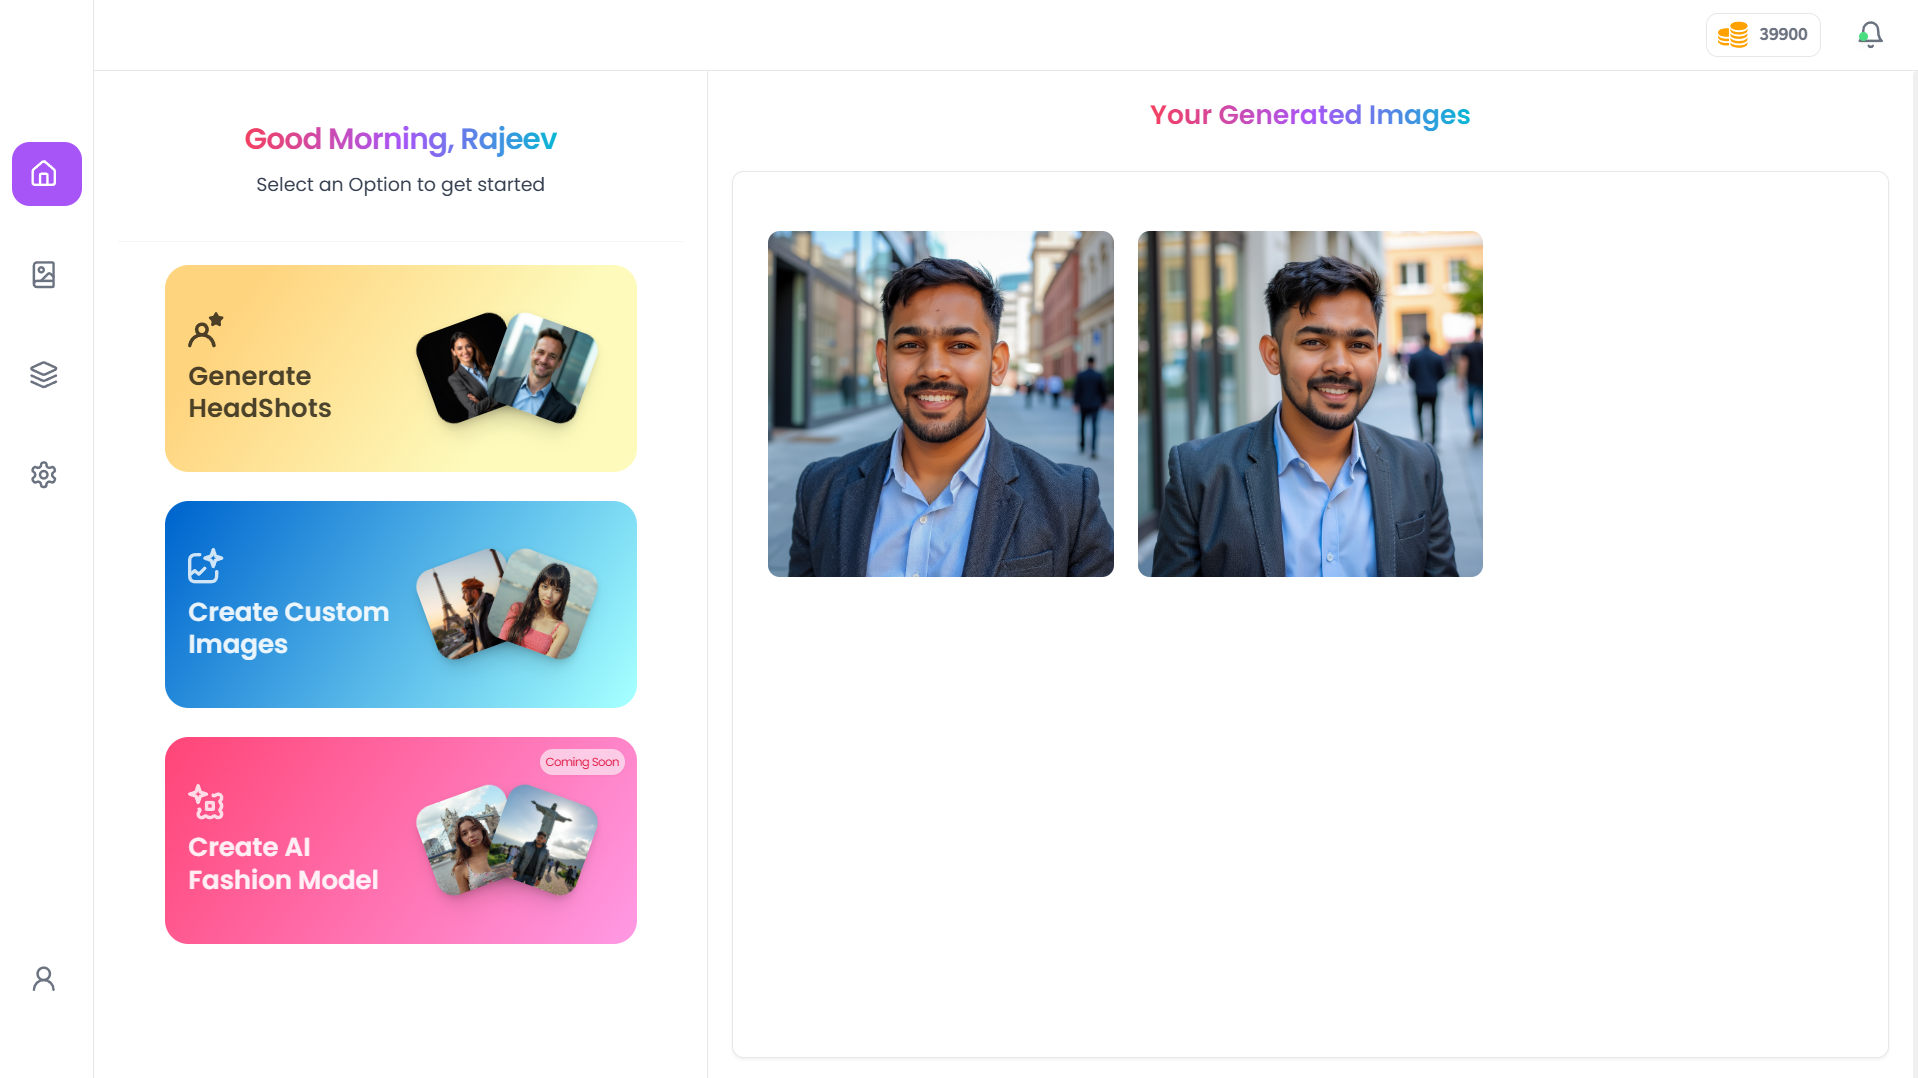
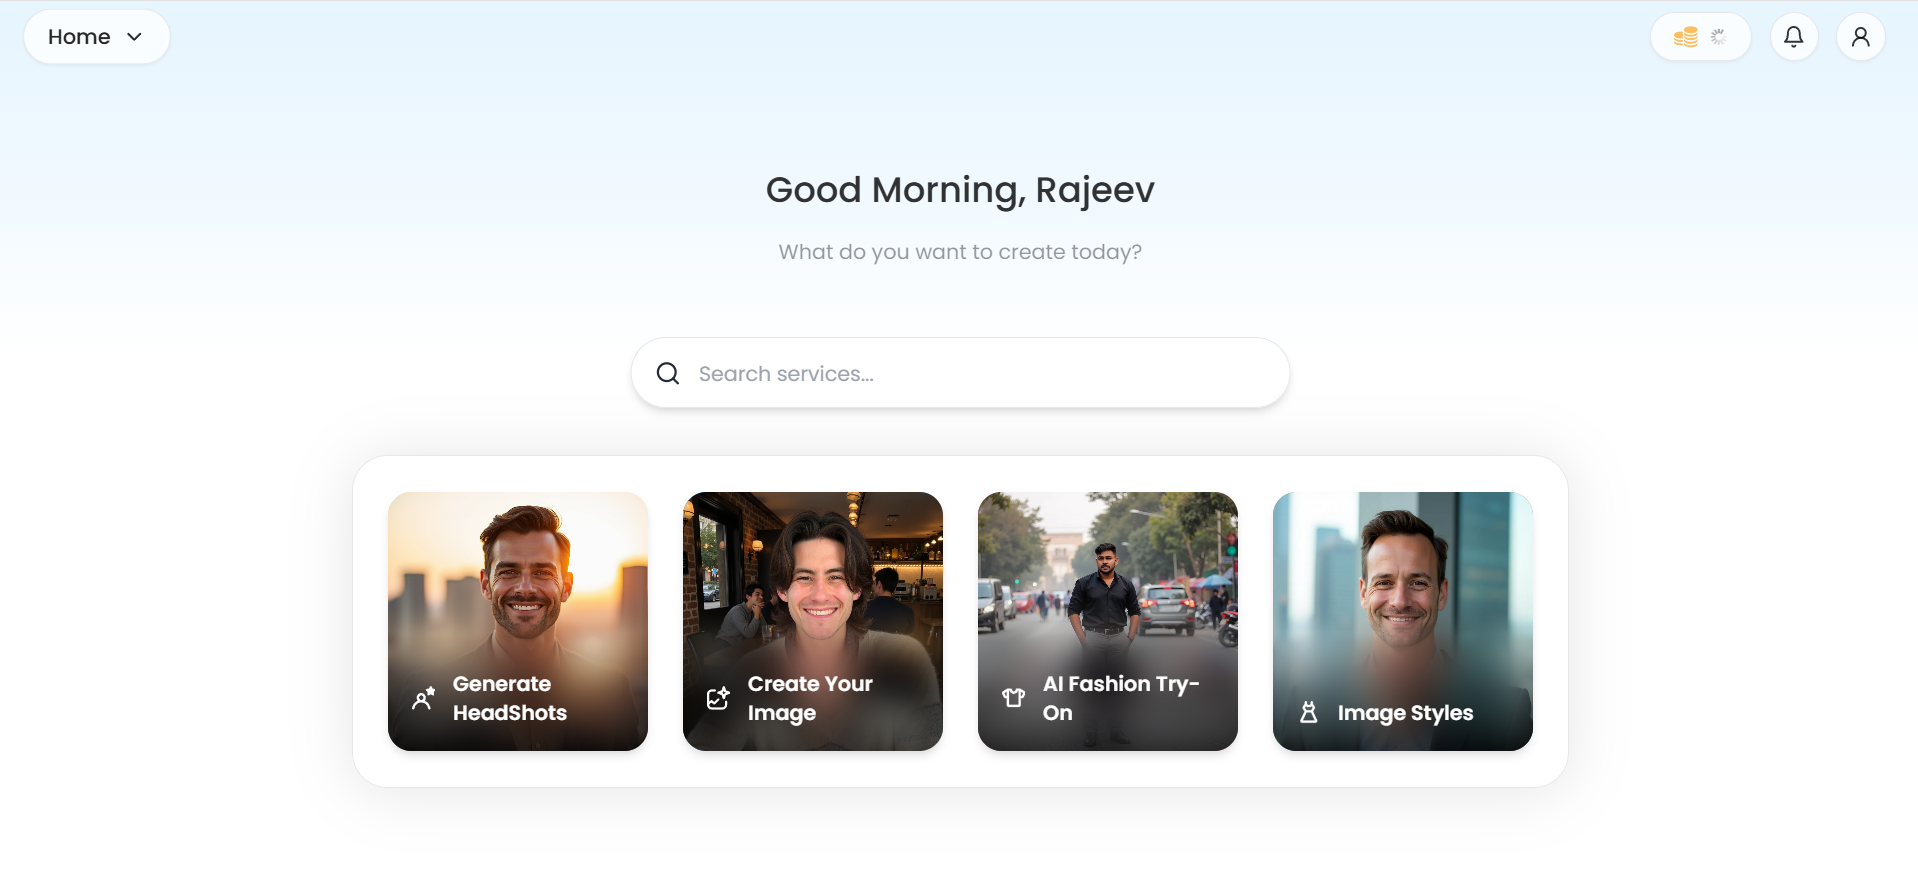
update home image

diff --git a/frontend/src/assets/image.js b/frontend/src/assets/image.js
@@ -34,6 +34,8 @@ import nyc1 from "./other-images/nyc1.png"
 import paris from "./other-images/paris.jpg"
 import skateboard from "./other-images/skateboard.jpg"
 
+import Home from "./home.png"
+
 export {
     Black,
     CityLights,
@@ -50,6 +52,7 @@ export {
     david5,
     david6,
     david7,
+    Home,
 
     bow,
     img1,
